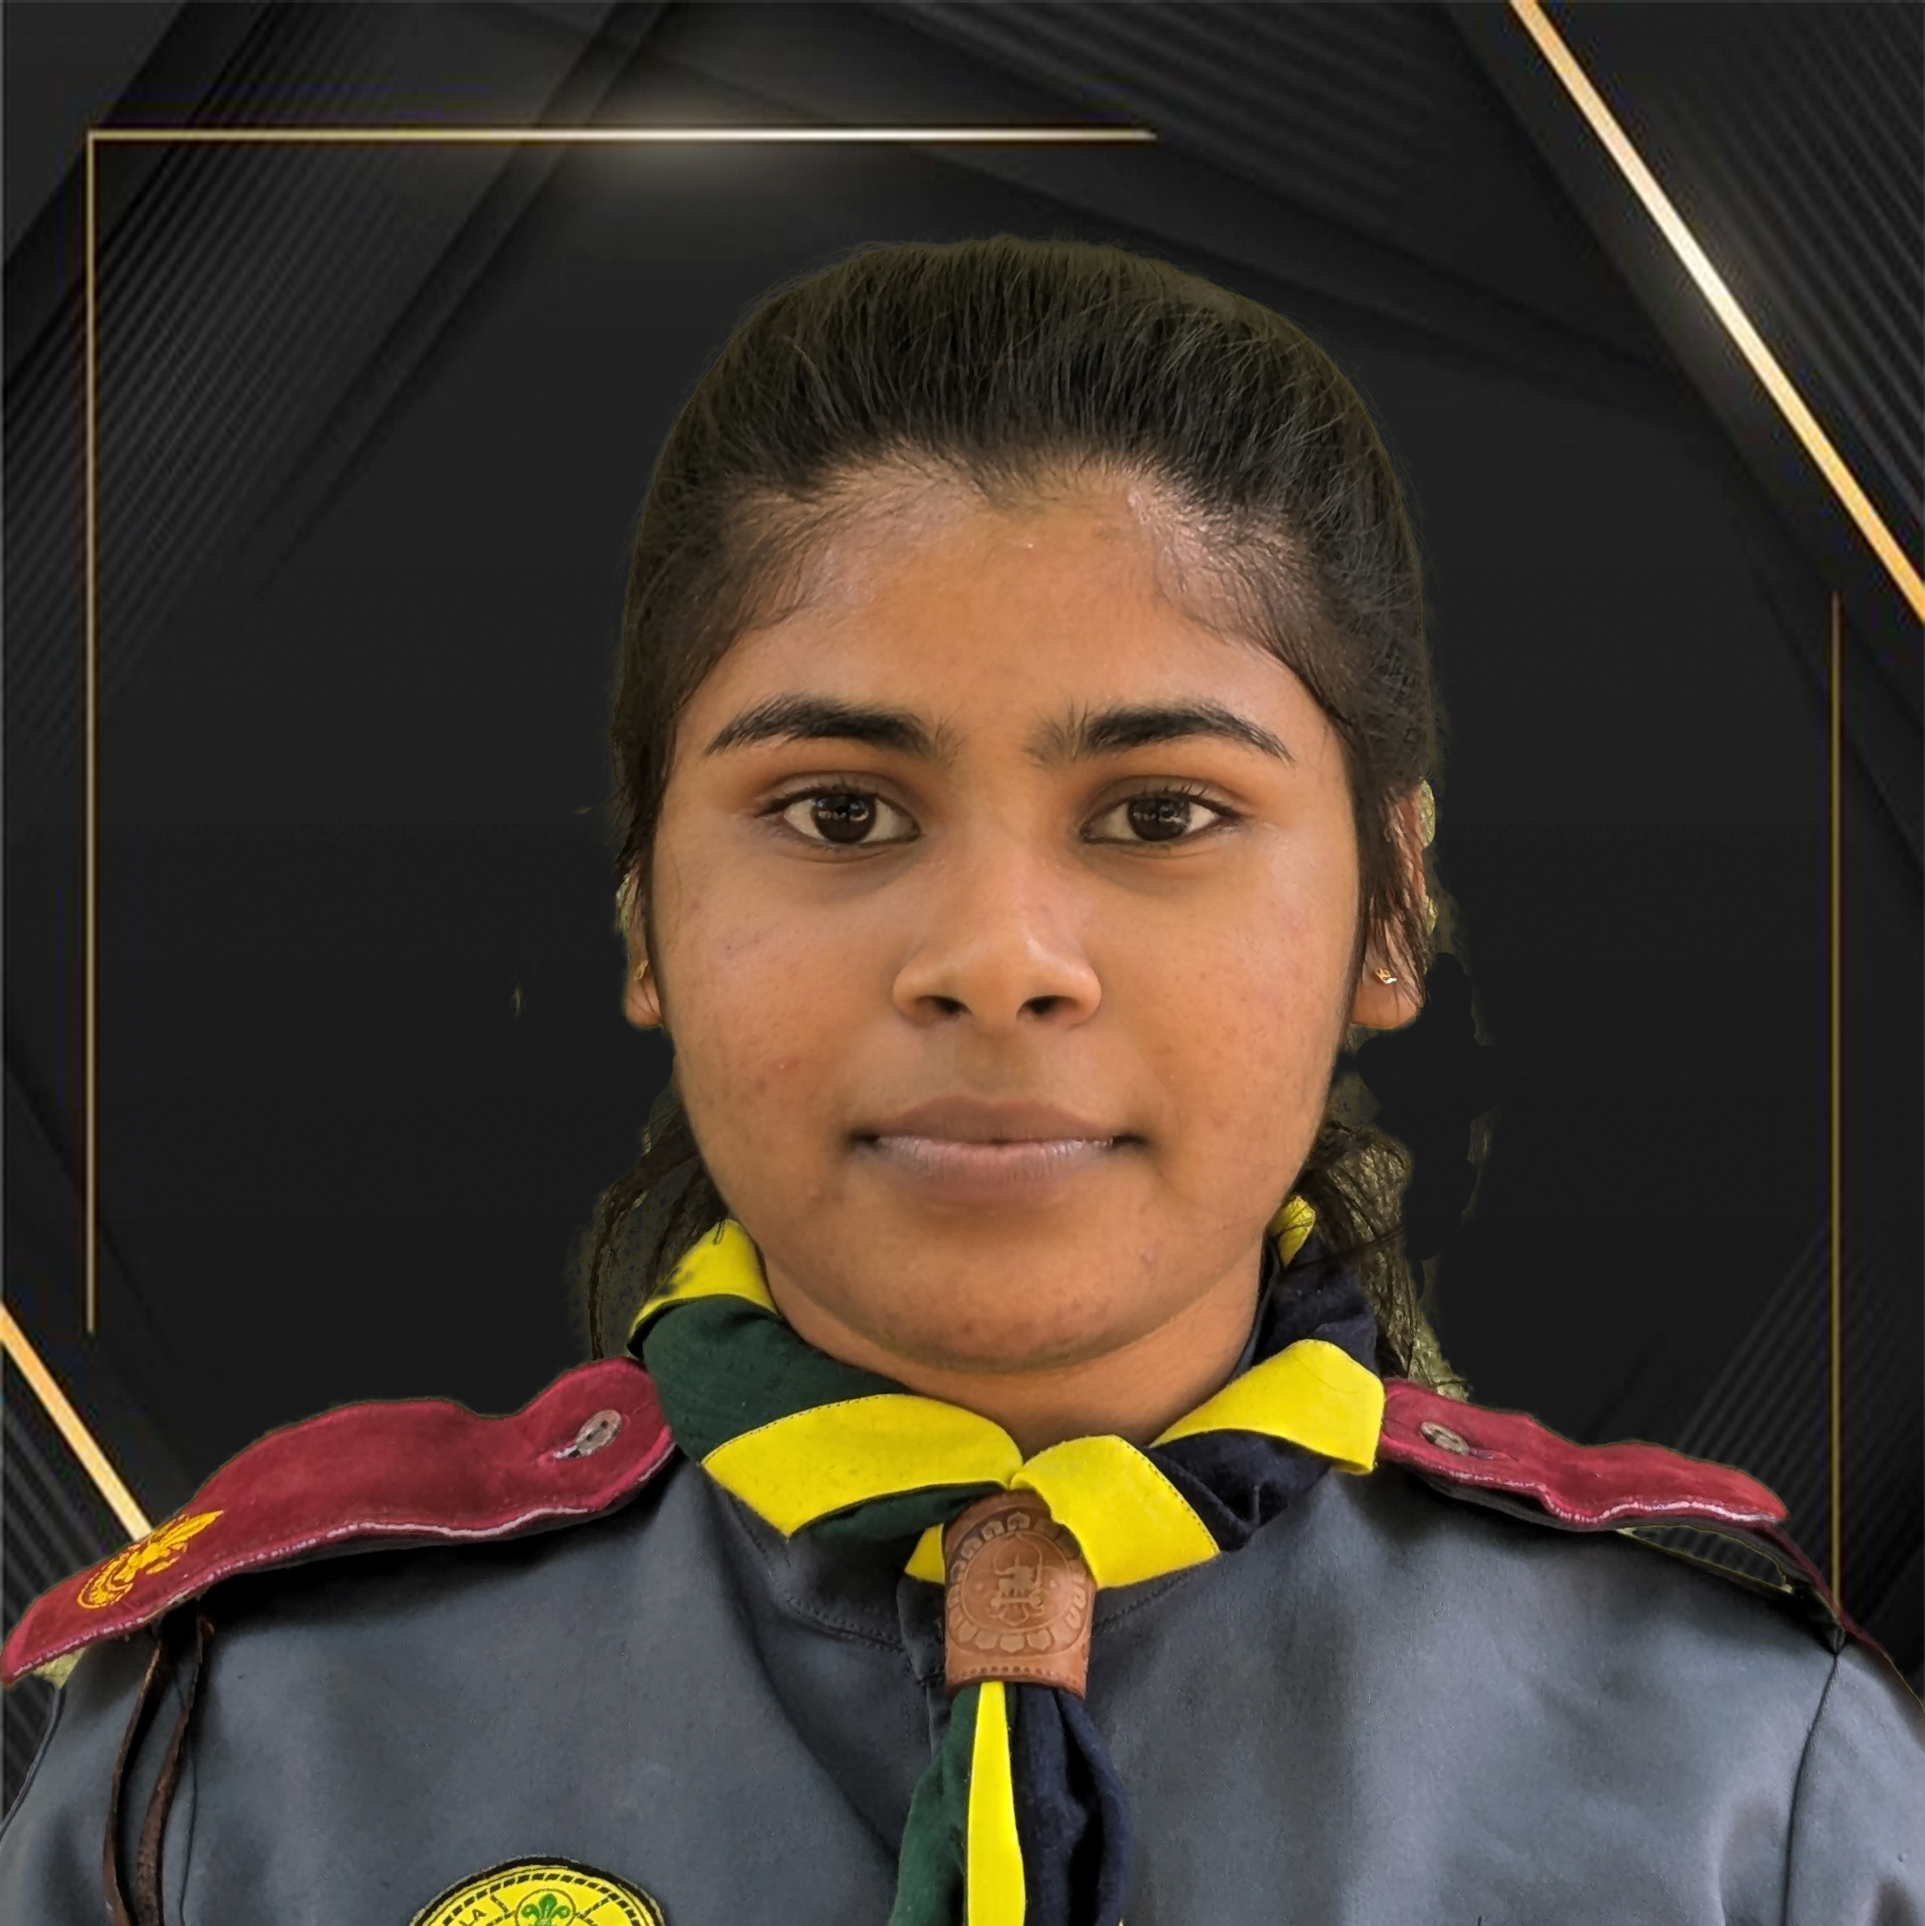
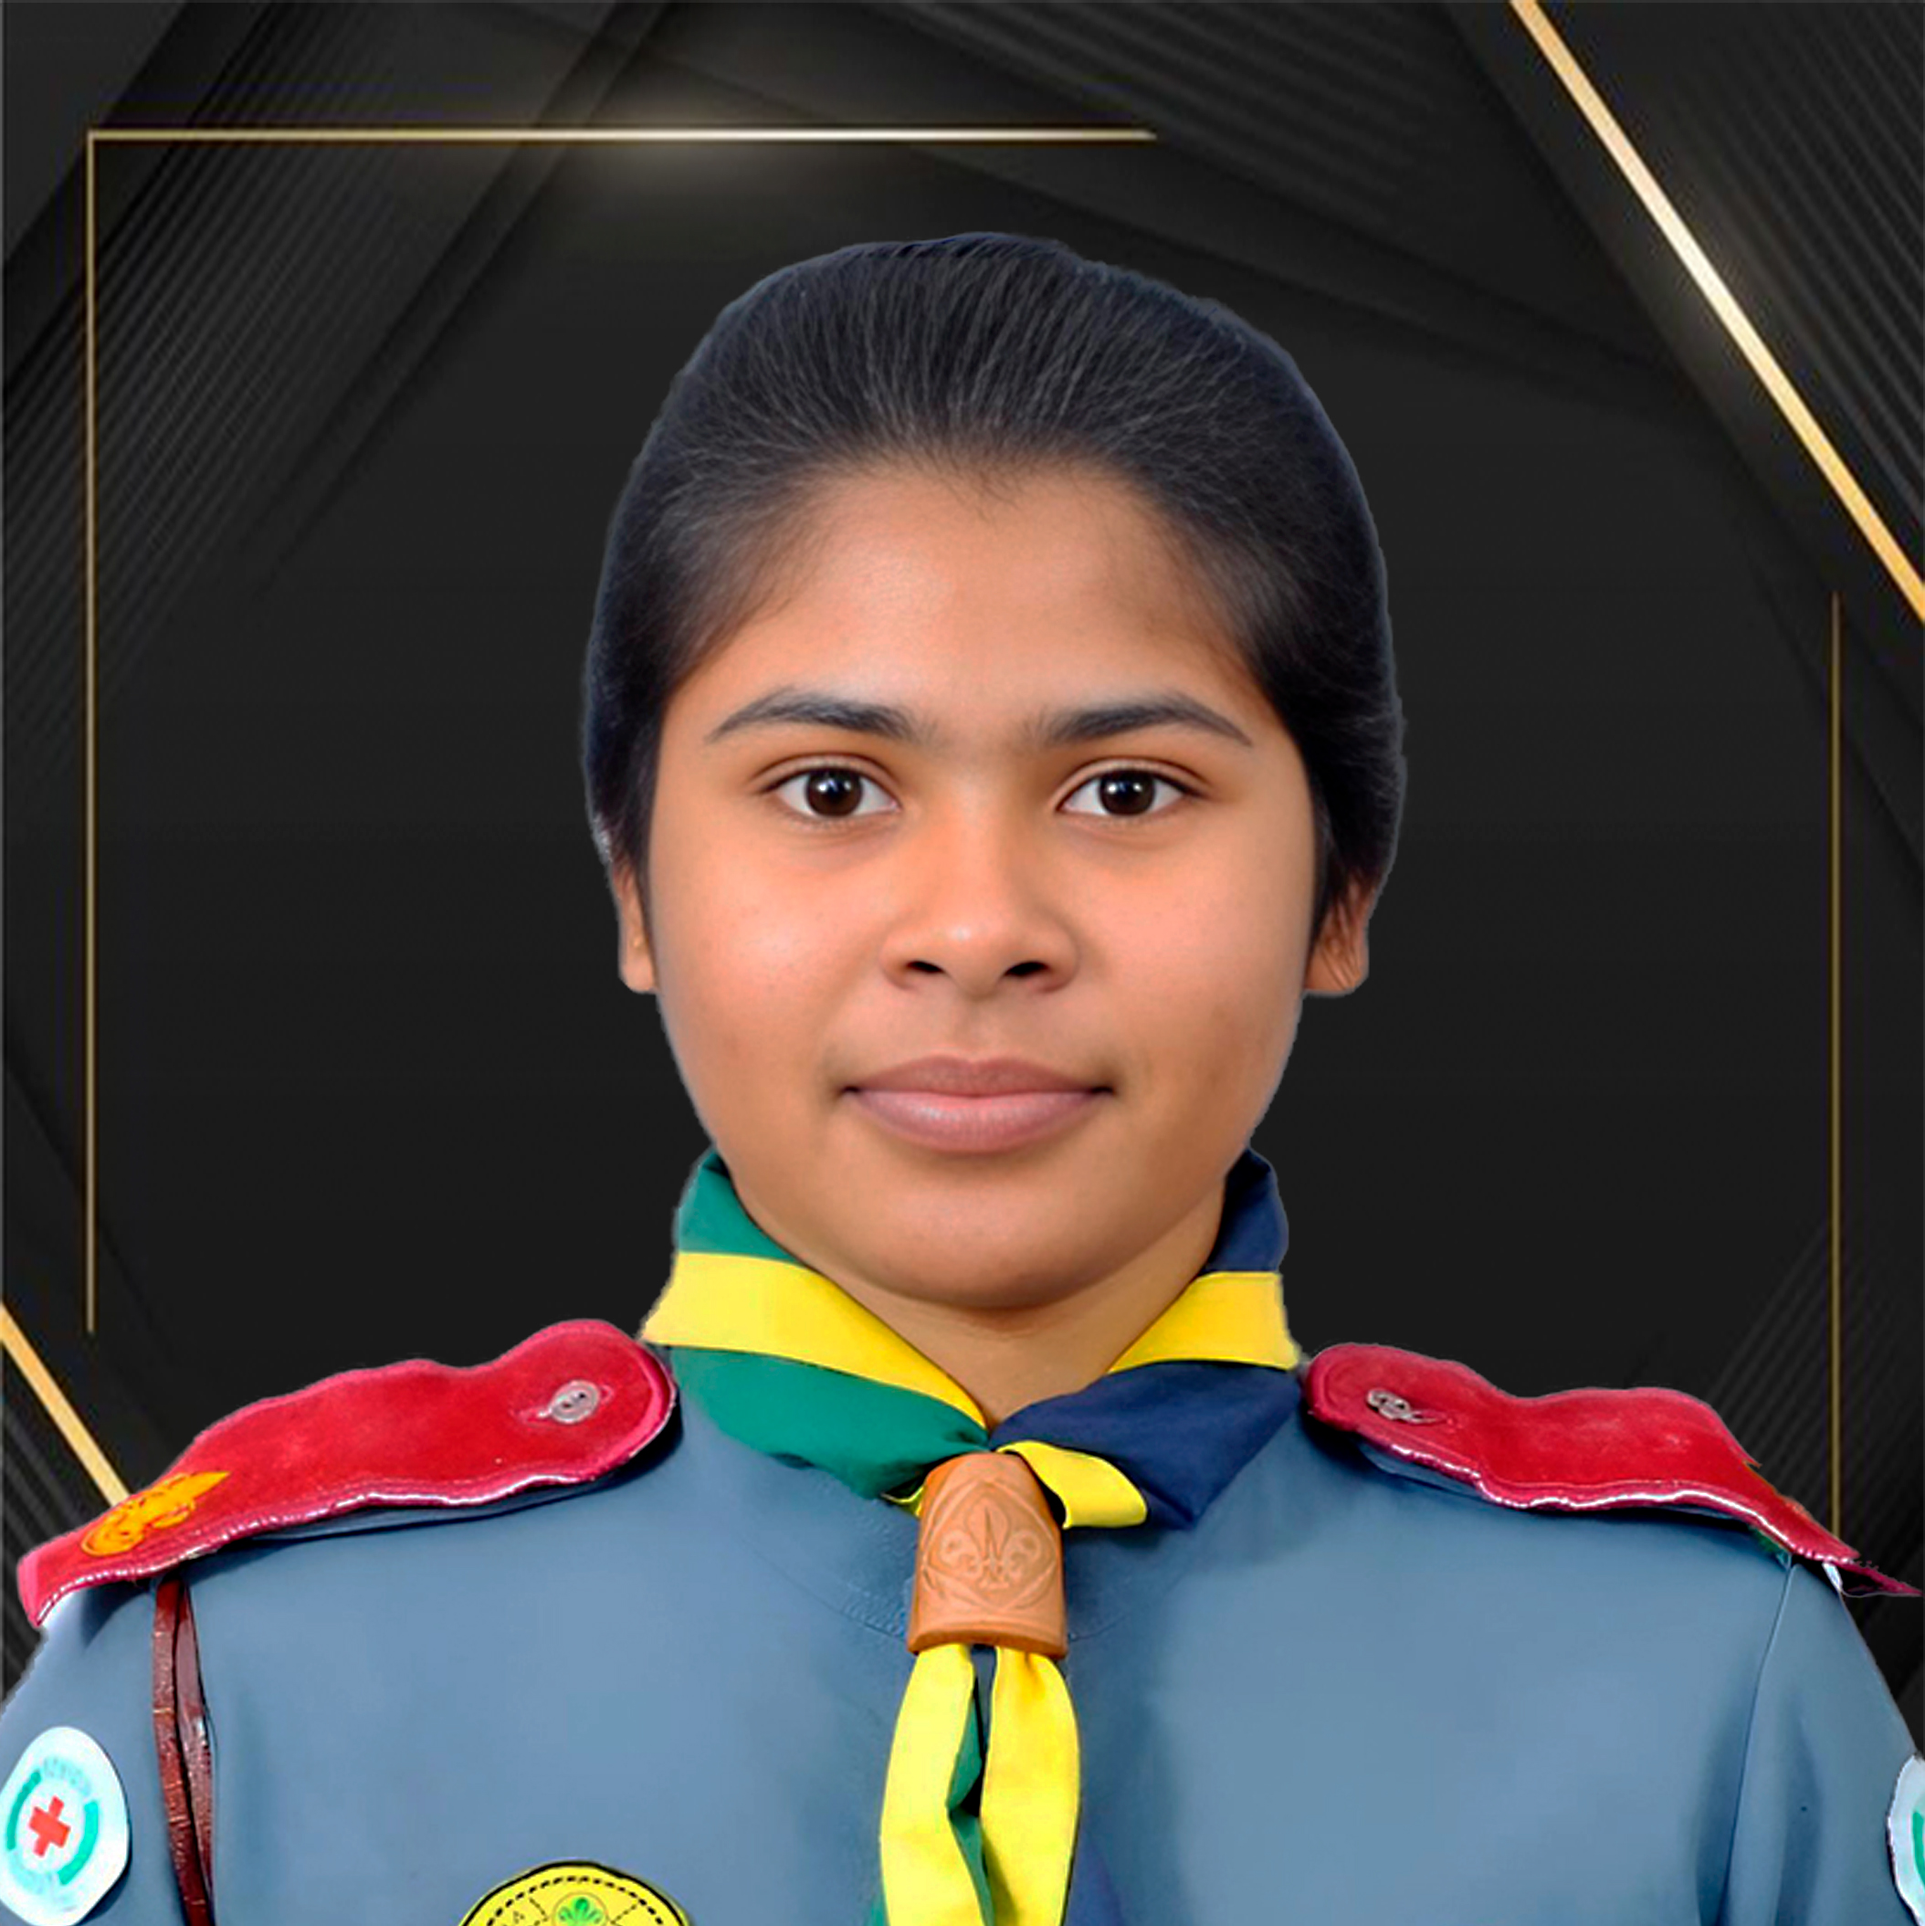
oc done

diff --git a/frontend/src/Pages/About.jsx b/frontend/src/Pages/About.jsx
@@ -16,6 +16,9 @@ import sachintha from "../Assests/Sachintha1.jpg";
 import sandeepa from "../Assests/Sandeepa1.jpg";
 import manodya from "../Assests/Manodya1.jpg";
 import ransa from "../Assests/Ransa1.jpg";
+import deeshana from "../Assests/Deeshana1.jpg"
+import lochana from "../Assests/Lochana1.jpg"
+
 
 export default function About() {
   const [showFullContent, setShowFullContent] = useState(false);
@@ -79,6 +82,12 @@ export default function About() {
       image: pahanmi,
     },
     {
+      name: "Lochana Karunarathne",
+      role: "Activity Coordinator",
+      description: "Handle All The Activities In the Jambaree.",
+      image: lochana,
+    },
+    {
       name: "Niketha Weerasinghe",
       role: "Admin Coordinator",
       description: "Manages all event resources and logistics efficiently.",
@@ -95,6 +104,12 @@ export default function About() {
       role: "Safety & Security Coordinator",
       description: "Ensures a safe and secure environment for all activities.",
       image: kassapa,
+    },
+    {
+      name: "Deeshana Kavindi",
+      role: "Safety & Security Coordinator",
+      description: "Ensures a safe and secure environment for all activities.",
+      image: deeshana,
     },
     {
       name: "Dimuthu Dasun",
